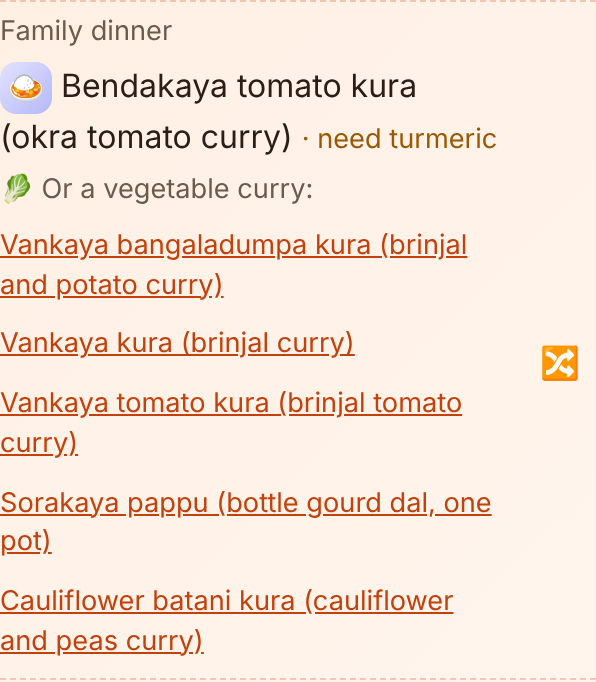
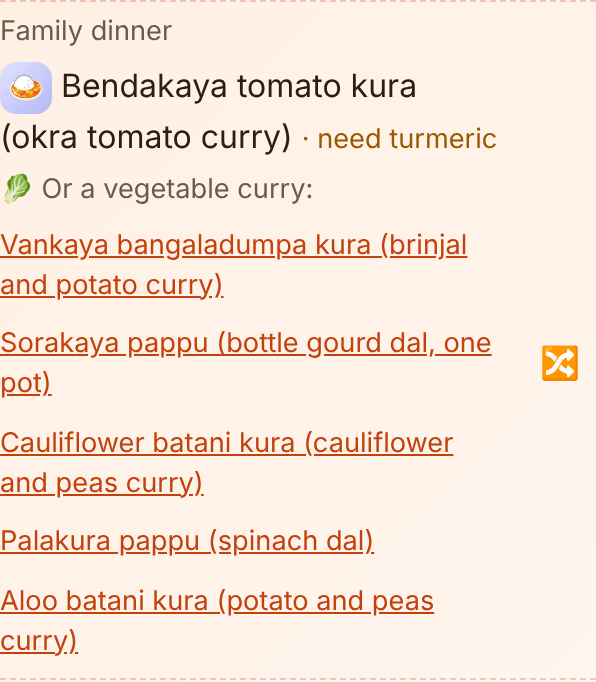
Family dinner: a new vegetable with each idea, not three brinjal curries
Ideas keep one dish per main vegetable, both for 🔀 and for the list of
vegetable curries under the idea. The kitchen's vegetable curries come
before an egg or chicken dinner, 🔀 goes down the ranked list so no kitchen
vegetable is skipped, and a dish's own vegetable must be fresh in the
kitchen (frozen peas can still go in with fresh potatoes).

Claude-Session: https://claude.ai/code/session_015p61Y4ib6He6QVnkopPCz6

diff --git a/public/shared/recipes.js b/public/shared/recipes.js
@@ -379,6 +379,19 @@ export function isVegCurry(recipe) {
   return !names.some((n) => MEAT.test(n)) && !MEAT.test(String(recipe.title || "").toLowerCase()) && names.some(isMainVegetable);
 }
 
+// What a dish is mostly made of: its first main vegetable ("brinjal" for vankaya bangaladumpa kura),
+// else its protein, else its own id. Ideas are kept to one dish per main vegetable, so 🔀 and the
+// vegetable curry list bring a new vegetable each time instead of three brinjal curries.
+export function mainVegOf(recipe) {
+  const names = (recipe?.ingredients || []).map((i) => normName(i.name));
+  return names.find(isMainVegetable) || names.find((n) => PROTEIN.test(n)) || `#${recipe?.id}`;
+}
+// The best-ranked dish for each main vegetable, in the list's own order.
+export function oneEachVeg(list) {
+  const seen = new Set();
+  return list.filter((r) => { const v = mainVegOf(r); return !seen.has(v) && seen.add(v); });
+}
+
 // How many vegetable curries the family dinner always offers, and how many ideas 🔀 goes round.
 export const VEG_CURRY_MIN = 5;
 export const DINNER_POOL = 8;
@@ -389,7 +402,7 @@ export const DINNER_POOL = 8;
 // Fewest things to buy first, then the vegetable curries, food running out, the least from the freezer, the picked
 // cuisines, the favorites and the most from the kitchen. When the kitchen has fewer than
 // VEG_CURRY_MIN vegetable curries, vegetable curries that need the fewest things bought fill in,
-// so there are always that many to pick from. Returns recipes.
+// so there are always that many to pick from, each with a different vegetable. Returns recipes.
 export function familyDinnerIdeas(pantry, { frozen = [], staples = [], cuisines = [], useSoon = null, settings = null, appliances = [], maxMissing = 3, extraVeg = 7 } = {}) {
   const k = kitchen(pantry, frozen, staples);
   const rated = LIBRARY.filter((x) => x.forWhom === "family" && x.mealType === "dinner" && !x.leftover && suits(x, settings))
@@ -397,26 +410,34 @@ export function familyDinnerIdeas(pantry, { frozen = [], staples = [], cuisines 
     .map((recipe) => {
       const needed = [...new Set(neededNames(recipe, k.assumed))];
       const mains = needed.filter(isMain);
-      return { recipe, veg: isVegCurry(recipe), fresh: mains.filter((n) => k.fresh.has(n)).length, frozenMain: mains.some((n) => k.cold.has(n)),
+      return { recipe, veg: isVegCurry(recipe), fresh: mains.filter((n) => k.fresh.has(n)).length, frozenMain: mains.some((n) => k.cold.has(n)), headline: k.fresh.has(mainVegOf(recipe)),
         fromFreezer: needed.filter((n) => k.cold.has(n)).length, missing: needed.filter((n) => !k.has(n)).length, soon: useSoonScore(needed, k.fresh, useSoon) };
     });
   const order = (a, b) => a.missing - b.missing || b.veg - a.veg || b.soon - a.soon || a.fromFreezer - b.fromFreezer
     || (cuisines.length ? inCuisines(b.recipe, cuisines) - inCuisines(a.recipe, cuisines) : 0)
     || (b.recipe.familyFavorite ? 1 : 0) - (a.recipe.familyFavorite ? 1 : 0) || b.fresh - a.fresh
     || usesAppliance(b.recipe, appliances) - usesAppliance(a.recipe, appliances);
-  const fromKitchen = rated.filter((x) => x.fresh > 0 && x.missing <= maxMissing).sort(order);
-  const vegHere = fromKitchen.filter((x) => x.veg).length;
-  // Fill-ins to buy for: never a dish whose vegetable sits in the freezer.
-  const fill = rated.filter((x) => x.veg && !fromKitchen.includes(x) && !x.frozenMain).sort(order)
-    .slice(0, Math.max(0, VEG_CURRY_MIN + extraVeg - vegHere));
-  return [...fromKitchen, ...fill].map((x) => x.recipe);
+  // The dish's own vegetable (or meat) must be fresh in the kitchen: an okra curry needs okra on the
+  // kitchen list, while frozen peas can still go in with fresh potatoes.
+  const fromKitchen = rated.filter((x) => x.headline && x.missing <= maxMissing).sort(order);
+  const vegHere = new Set(fromKitchen.filter((x) => x.veg).map((x) => mainVegOf(x.recipe)));
+  // Fill-ins to buy for, each a vegetable the kitchen ones don't use: never a dish whose vegetable sits in the freezer.
+  const fill = oneEachVeg(rated.filter((x) => x.veg && !fromKitchen.includes(x) && !x.frozenMain && !vegHere.has(mainVegOf(x.recipe))).sort(order).map((x) => x.recipe))
+    .slice(0, Math.max(0, VEG_CURRY_MIN + extraVeg - vegHere.size));
+  const out = [...fromKitchen.map((x) => x.recipe), ...fill];
+  // Which ones are bought for, not from the kitchen (for withVegCurries).
+  out.fill = new Set(fill.map((r) => r.id));
+  return out;
 }
 
-// The first `size` of a ranked list of dinners, with at least `min` vegetable curries among them
-// (the best-ranked ones), in the list's own order.
-export function withVegCurries(list, { size = DINNER_POOL, min = VEG_CURRY_MIN } = {}) {
-  const veg = list.filter(isVegCurry).slice(0, min);
-  const keep = new Set(veg);
-  for (const r of list) { if (keep.size >= size) break; keep.add(r); }
-  return list.filter((r) => keep.has(r)).slice(0, size);
+// The first `size` of a ranked list of dinners, one per main vegetable: the kitchen's vegetable
+// curries first (so 🔀 goes through every vegetable before an egg or chicken curry), then curries to
+// buy for only until there are `min`, then the other dinners, each in the list's own order. `fill` is the
+// ids bought for (familyDinnerIdeas(...).fill, used when `list` is that list itself).
+export function withVegCurries(list, { size = DINNER_POOL, min = VEG_CURRY_MIN, fill = list?.fill || new Set() } = {}) {
+  list = oneEachVeg(list);
+  const veg = list.filter((r) => isVegCurry(r) && !fill.has(r.id));
+  const toBuy = list.filter((r) => fill.has(r.id));
+  const need = Math.max(0, min - veg.length);
+  return [...veg, ...toBuy.slice(0, need), ...list.filter((r) => !isVegCurry(r) && !fill.has(r.id))].slice(0, Math.max(size, min));
 }

diff --git a/public/app.js b/public/app.js
@@ -5,7 +5,7 @@ import { catalogText, libraryRefs, savedRefs, planWindow, contextText, userTurn,
 import { QUICK_MINUTES } from "./shared/ai-prompt.js";
 import { todayKey, addDays, addMonths, monthGrid, monthLabel, prettyDate, fromKey, isDateKey, isSchoolDay, occurrences, daysBetween } from "./shared/dates.js";
 import { checkRecipe, checkForAudience, isNutIngredient, isSchoolFood } from "./shared/safety.js";
-import { LIBRARY, suggestFromLibrary, readyToCook, RECIPE_BOOK_STATUS, cookByVegetables, missingForRecipe, CUISINES, inCuisines, topPicks, leftoverKind, leftoverRecipesFor, freezerSet, sideDipsFor, quickBreakfasts, breakfastKind, fitsMorning, familyDinnerIdeas, withVegCurries, isVegCurry, VEG_CURRY_MIN, MORNING_MINUTES, EASY_NIGHT_MINUTES } from "./shared/recipes.js";
+import { LIBRARY, suggestFromLibrary, readyToCook, RECIPE_BOOK_STATUS, cookByVegetables, missingForRecipe, CUISINES, inCuisines, topPicks, leftoverKind, leftoverRecipesFor, freezerSet, sideDipsFor, quickBreakfasts, breakfastKind, fitsMorning, familyDinnerIdeas, withVegCurries, isVegCurry, mainVegOf, oneEachVeg, VEG_CURRY_MIN, MORNING_MINUTES, EASY_NIGHT_MINUTES } from "./shared/recipes.js";
 import { PREF_OPTIONS, prefsFor, prefProblem, avoidedIn, prefsPrompt, prefStaples, cleanPrefs } from "./shared/preferences.js";
 import { kitchenExpiry, useSoonWeights, goneBy, staplesFor, staplesSummary, expiryOf, dateKeyOf, daysLeftLabel, shelfLifeDays } from "./shared/freshness.js";
 import { nutritionTags, TAG_LABELS } from "./shared/recipe-book.js";
@@ -933,27 +933,32 @@ function suggestionsFor(key) {
     // The family dinner comes from the kitchen: fresh vegetables first, at least VEG_CURRY_MIN
     // vegetable curries to go round with 🔀, never yesterday's leftovers or the freezer alone.
     if (s.who === "family") {
-      const ideas = familyDinnerIdeas(pantry, { frozen: frozenOnHand(), staples: staplesOn(), cuisines, useSoon: opt.useSoon, settings: state.settings, appliances: appliancesOwned() })
-        .filter(safe);
+      const all = familyDinnerIdeas(pantry, { frozen: frozenOnHand(), staples: staplesOn(), cuisines, useSoon: opt.useSoon, settings: state.settings, appliances: appliancesOwned() });
+      const ideas = all.filter(safe);
       const notUsed = ideas.filter((r) => !used.has(r.id));
       const tier = [notUsed.filter((r) => !lastWeek.has(r.id)), notUsed.filter((r) => !avoid.has(r.id)), ideas].find((t) => t.length) || [];
-      const pool = withVegCurries(tier);
+      const pool = withVegCurries(tier, { fill: all.fill });
       if (!pool.length) continue;
       // Each 🔀 turn shows a dinner not shown yet this time round (the ranking can shift as the
       // other slots change), and the same turn keeps its dinner when the panel redraws.
       const turn = entry.seed + (entry.offsets[s.id] || 0);
       const shown = ((entry.shown ||= {})[s.id] ||= {});
       const chosen = findRecipe(entry.chosen[s.id]);
-      const before = Object.entries(shown).filter(([n]) => +n !== turn).map(([, id]) => id);
-      const r = chosen && ideas.includes(chosen) ? chosen
-        : pool.find((x) => x.id === shown[turn])
-          || [...pool.slice(turn % pool.length), ...pool.slice(0, turn % pool.length)].find((x) => !before.includes(x.id))
-          || pool[turn % pool.length];
+      // Vegetables already shown this time round: each turn brings a new one.
+      const before = new Set(Object.entries(shown).filter(([n]) => +n !== turn).map(([, id]) => findRecipe(id)).filter(Boolean).map(mainVegOf));
+      // Down the ranked list, so no vegetable in the kitchen is skipped.
+      let r = chosen && ideas.includes(chosen) ? chosen : pool.find((x) => x.id === shown[turn]) || pool.find((x) => !before.has(mainVegOf(x)));
+      if (!r) {
+        // Every vegetable has had its turn: start a new round, still not the one just shown.
+        const last = findRecipe(shown[turn - 1]);
+        for (const n of Object.keys(shown)) delete shown[n];
+        r = pool.find((x) => !last || mainVegOf(x) !== mainVegOf(last)) || pool[0];
+      }
       shown[turn] = r.id;
       picks[s.id] = r.id;
       used.add(r.id);
-      // The other vegetable curries, to pick one in a tap.
-      entry.vegOptions[s.id] = tier.filter((x) => isVegCurry(x) && x.id !== r.id).slice(0, VEG_CURRY_MIN).map((x) => x.id);
+      // The other vegetable curries, each with a vegetable of its own, to pick one in a tap.
+      entry.vegOptions[s.id] = oneEachVeg(tier.filter(isVegCurry)).filter((x) => mainVegOf(x) !== mainVegOf(r)).slice(0, VEG_CURRY_MIN).map((x) => x.id);
       continue;
     }
     // One leftover idea a day, in the first slot it fits. 🔀 on that slot moves on to the usual ideas.

diff --git a/tests/family-dinner.test.js b/tests/family-dinner.test.js
@@ -2,7 +2,7 @@
 // least five different vegetable curries to choose from.
 import { test } from "node:test";
 import assert from "node:assert/strict";
-import { familyDinnerIdeas, withVegCurries, isVegCurry, isMainVegetable, VEG_CURRY_MIN, DINNER_POOL, LIBRARY } from "../public/shared/recipes.js";
+import { familyDinnerIdeas, withVegCurries, isVegCurry, isMainVegetable, mainVegOf, oneEachVeg, VEG_CURRY_MIN, DINNER_POOL, LIBRARY } from "../public/shared/recipes.js";
 import { normName } from "../public/shared/shopping.js";
 
 // The app's starting kitchen, plus the vegetables of a usual shop.
@@ -74,12 +74,28 @@ test("FAM-06 vegetable curries: a curry with a vegetable and no meat or egg", ()
   assert.ok(LIBRARY.filter((r) => r.forWhom === "family" && isVegCurry(r)).length >= 20);
 });
 
-test("FAM-07 the pool keeps at least five vegetable curries among the first ideas", () => {
+test("FAM-07 the pool keeps at least five vegetable curries, ahead of the other dinners", () => {
   const ideas = familyDinnerIdeas(SHOPPED);
   const pool = withVegCurries(ideas);
-  assert.equal(pool.length, DINNER_POOL);
+  assert.ok(pool.length >= VEG_CURRY_MIN && pool.length <= DINNER_POOL);
   assert.ok(pool.filter(isVegCurry).length >= VEG_CURRY_MIN);
-  // In the ideas' own order.
+  // The vegetable curries first, then the rest, each in the ideas' own order.
   const at = (r) => ideas.indexOf(r);
-  assert.deepEqual(pool.map(at), [...pool.map(at)].sort((a, b) => a - b));
+  const firstOther = pool.findIndex((r) => !isVegCurry(r));
+  if (firstOther >= 0) assert.ok(pool.slice(firstOther).every((r) => !isVegCurry(r)), "vegetable curries come first");
+  for (const part of [pool.filter(isVegCurry), pool.filter((r) => !isVegCurry(r))]) assert.deepEqual(part.map(at), [...part.map(at)].sort((a, b) => a - b));
+});
+
+test("FAM-08 a new vegetable each time: never three brinjal curries in a row", () => {
+  for (const pantry of [STARTER, SHOPPED, [...SHOPPED, "ivy gourd", "drumstick"]]) {
+    const pool = withVegCurries(familyDinnerIdeas(pantry, { frozen: FREEZER }));
+    const vegs = pool.map(mainVegOf);
+    assert.equal(new Set(vegs).size, vegs.length, `one dish per vegetable: ${pool.map((r) => r.title).join(" | ")}`);
+    assert.ok(new Set(pool.filter(isVegCurry).map(mainVegOf)).size >= VEG_CURRY_MIN, "5+ vegetables among the curries");
+  }
+  // The book has several brinjal curries; only the best one stays.
+  const brinjal = LIBRARY.filter((r) => r.forWhom === "family" && isVegCurry(r) && mainVegOf(r) === "brinjal");
+  assert.ok(brinjal.length >= 3);
+  assert.equal(oneEachVeg(brinjal).length, 1);
+  assert.equal(mainVegOf(LIBRARY.find((r) => r.title.startsWith("Vankaya bangaladumpa kura"))), "brinjal");
 });

diff --git a/tests/e2e/app.e2e.js b/tests/e2e/app.e2e.js
@@ -1713,7 +1713,7 @@ test("E2E FAM-01 the family dinner idea comes from the kitchen, never a leftover
   const check = async () => {
     const text = await dinner.innerText();
     assert.doesNotMatch(text, /Uses yesterday's|leftover|Kari dosai|kathi roll|enchilada/i, "never a leftover makeover");
-    assert.doesNotMatch(text, /chicken|kodi|munagakaya|drumstick/i, "nothing that needs the freezer's chicken or drumsticks");
+    assert.doesNotMatch(text, /chicken|kodi kura|munagakaya|drumstick/i, "nothing that needs the freezer's chicken or drumsticks");
     return text;
   };
 
@@ -1727,12 +1727,18 @@ test("E2E FAM-01 the family dinner idea comes from the kitchen, never a leftover
     await tid(page, "suggest-shuffle").click();
   }
   assert.equal(new Set(seen).size, seen.length, `each 🔀 gives a different dinner: ${seen.join(" | ")}`);
+  // Ram: "it should give a new vegetable, not the same". The Telugu title starts with the vegetable
+  // (Vankaya, Bendakaya, Palakura, Aloo, Sorakaya, Cauliflower): no vegetable twice in a row of 6.
+  const veg = (t) => t.replace(/^\W+/, "").split(" ")[0].toLowerCase();
+  assert.equal(new Set(seen.map(veg)).size, seen.length, `each 🔀 gives a new vegetable: ${seen.join(" | ")}`);
   assert.ok(seen.filter((t) => /kura|curry|pappu|pulusu/i.test(t)).length >= 5, `5+ vegetable curries: ${seen.join(" | ")}`);
 
   // At least five vegetable curries to pick from, all different, each with a kitchen vegetable.
   const options = await dinner.getByTestId("veg-curry-option").allInnerTexts();
   assert.ok(options.length >= 5, `vegetable curries offered: ${options.join(", ")}`);
   assert.equal(new Set(options).size, options.length);
+  const picked = veg((await dinner.locator(".grow").innerText()).split("·")[0].trim());
+  assert.equal(new Set([picked, ...options.map(veg)]).size, options.length + 1, `each curry is a different vegetable from the idea (${picked}) and each other: ${options.join(", ")}`);
   for (const o of options) {
     assert.match(o, /kura|curry|pappu|pulusu|kootu|kurma|masala/i, `${o} is a curry`);
     assert.match(o, kitchen, `${o} uses a vegetable from the kitchen`);

diff --git a/recipes/README.md b/recipes/README.md
@@ -39,7 +39,7 @@ Swap any recipe for another one from the same section. Search the file for 🥚,
 - **Suggested meals:** empty days on the calendar get suggestions picked from this book, best match to the kitchen first, and checked for each child's safety. The cuisines picked in 👤 Profile (Telugu, Tamil, North Indian, Mexican) come first; "South Indian" counts as Telugu and Tamil.
 - **Top picks:** the Recipes tab shows the five easiest recipes that use the vegetables in the kitchen, from the picked cuisines.
 - **School lunch list:** on school days the 4-year-old's lunchbox goes down one list in order, one a day, and carries on from where it stopped the next week: peanut butter and jelly sandwich, egg corn fried rice, chicken quesadilla (only when there is chicken in the kitchen or the freezer), soft idli (only when there is idli batter), mac and cheese, cream cheese cucumber sandwich, then oat waffles with blueberries and chocolate chips. A lunch the kitchen can't make is skipped for the next one, and the peanut butter sandwich is skipped when the school is nut-free. Tap 🔀 for the one after. The list is `LUNCH_ROTATION` in `public/shared/lunch-rotation.js`.
-- **Family dinner:** the idea always uses a fresh vegetable (or chicken, paneer, eggs) from the kitchen list, vegetable curries first. A dish whose main vegetable or meat is only in the freezer is never the idea, though the freezer can add a side thing like peas. Under it are five more vegetable curries to pick in one tap, and each 🔀 brings a dinner not shown yet. When the kitchen has fewer than five vegetable curries, the ones that need the fewest things bought fill in.
+- **Family dinner:** the idea always uses a fresh vegetable (or chicken, paneer, eggs) from the kitchen list, vegetable curries first. A dish whose main vegetable or meat is only in the freezer is never the idea, though the freezer can add a side thing like peas. Under it are five more vegetable curries to pick in one tap, and each 🔀 brings a new vegetable. The ideas keep to one dish per vegetable (the best brinjal curry, not three of them), and go through every vegetable in the kitchen before an egg or chicken dinner. When the kitchen has fewer than five vegetable curries, the ones that need the fewest things bought fill in.
 - **Leftovers:** when the day before had a curry for the family dinner, the Recipes tab's leftover makeovers show what it can become, like kari dosai. The family dinner idea stays a fresh dish from the kitchen, and the school lunchbox stays on the lunch list.
 - **Shopping:** a planned recipe's missing ingredients go to the shopping list with their quantities.
 - **Air fryer and oven:** in 👤 Profile → Cooking appliances, tick what the kitchen has. Recipes with a method for it show that method and its time, quick recipes count the faster time, and suggestions lean toward them. With a two-basket air fryer, two air fryer dishes for the same meal time are shown as basket 1 and basket 2 to cook together.
